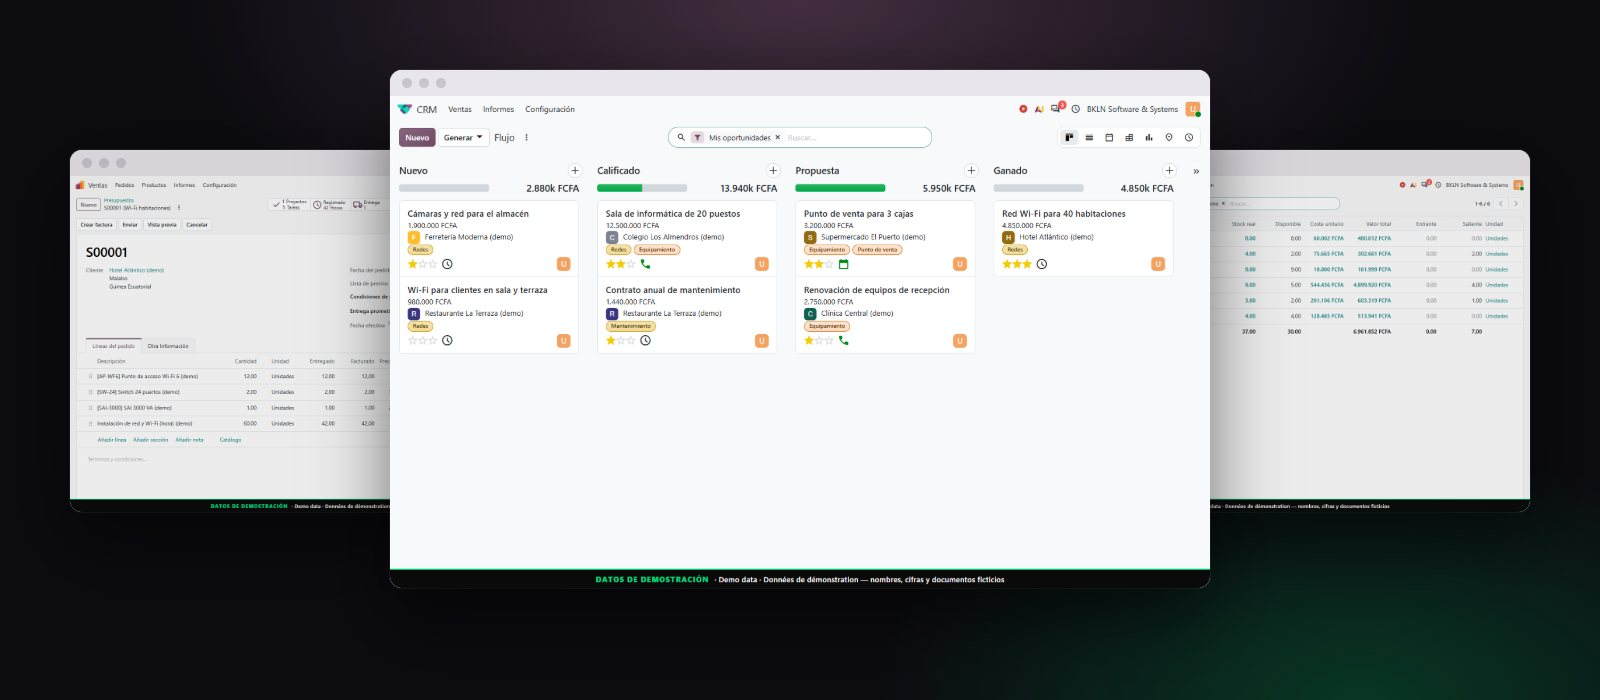
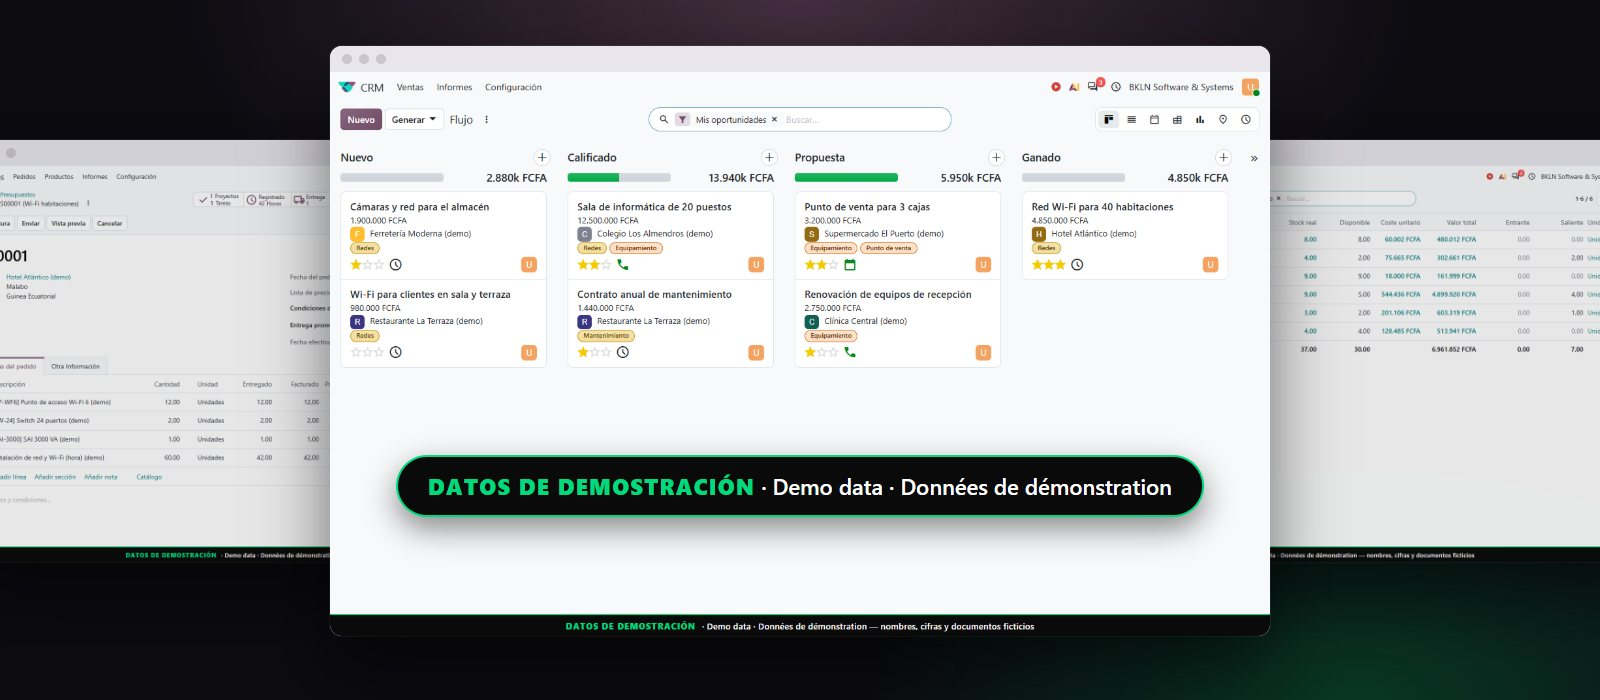
fix: portadas de Odoo con la etiqueta de demostración siempre visible
La franja inferior de las capturas se perdía al recortar la portada de las guías.

diff --git a/bkln-software/data/content.ts b/bkln-software/data/content.ts
@@ -1394,7 +1394,7 @@ En [nuestro Odoo de demostración](/portfolio/bkln-en-odoo) puedes ver exactamen
 Si importas y quieres saber cuánto ganas de verdad con cada producto, [te ayudamos a montarlo](/servicios/erp-odoo-sap), con Odoo o, si todavía no te hace falta, con un Excel bien hecho.`,
     category: 'guias',
     relatedService: 'erp-odoo-sap',
-    coverImage: '/odoo-existencias.jpg',
+    coverImage: '/odoo-cover-costes.jpg',
     author: {
       name: 'BKLN Software',
       avatar: '',
